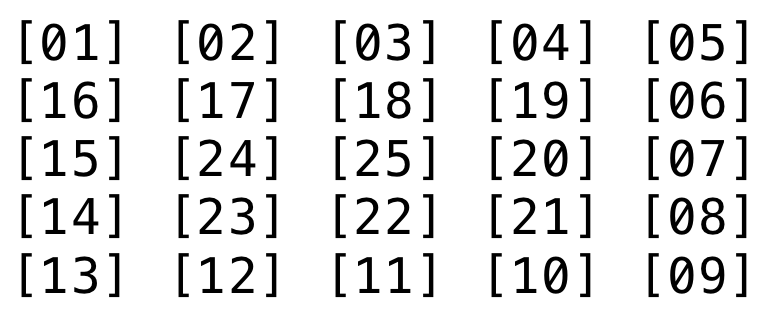
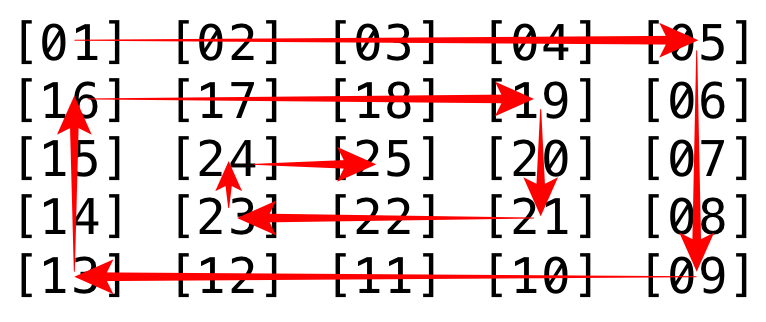
add imgs

diff --git a/170120_snail/README.md b/170120_snail/README.md
@@ -1,10 +1,51 @@
 ##달팽이 그리기
->정보처리기사의 마지막 관문  
-><del>정말 큰 쓸모는 없구나</del>
+>정보 처리 기사의 마지막 관문  
+><del>그다지 큰 쓸모는 없구나</del>
 
 ![snail](https://github.com/Ekutz/Fast_Campus_JS/blob/master/170119/imgs/snail.png?raw=true)
 
 - size를 입력 받고 size X size 의 2차원 배열에 달팽이 모양으로 숫자를 입력하는 알고리
+
+```
+if(size==5)
+ 1  2  3  4  5
+ 6  7  8  9
+
+10 11 12 13
+14 15 16
+
+17 18 19
+20 21
+
+22 23
+24
+
+25
+```
+```
+if(size==7)
+ 1  2  3  4  5  6  7
+ 8  9 10 11 12 13
+
+14 15 16 17 18 19
+20 21 22 23 24
+
+25 26 27 28 29
+30 31 32 33
+
+34 35 36 37
+38 39 40
+
+41 42 43
+44 45
+
+46 47
+48
+
+49
+```
+
+>위 두 예시와 같은 방식으로 돌아가는 알고리즘을 구현해 보았다
 
 ```
 public void snail(int size) {
